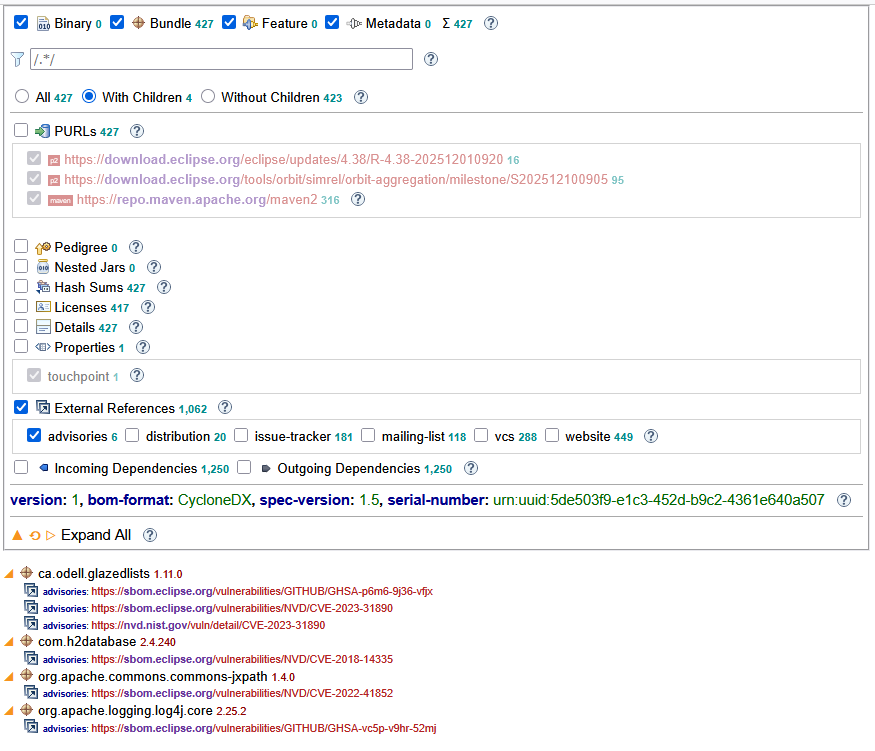
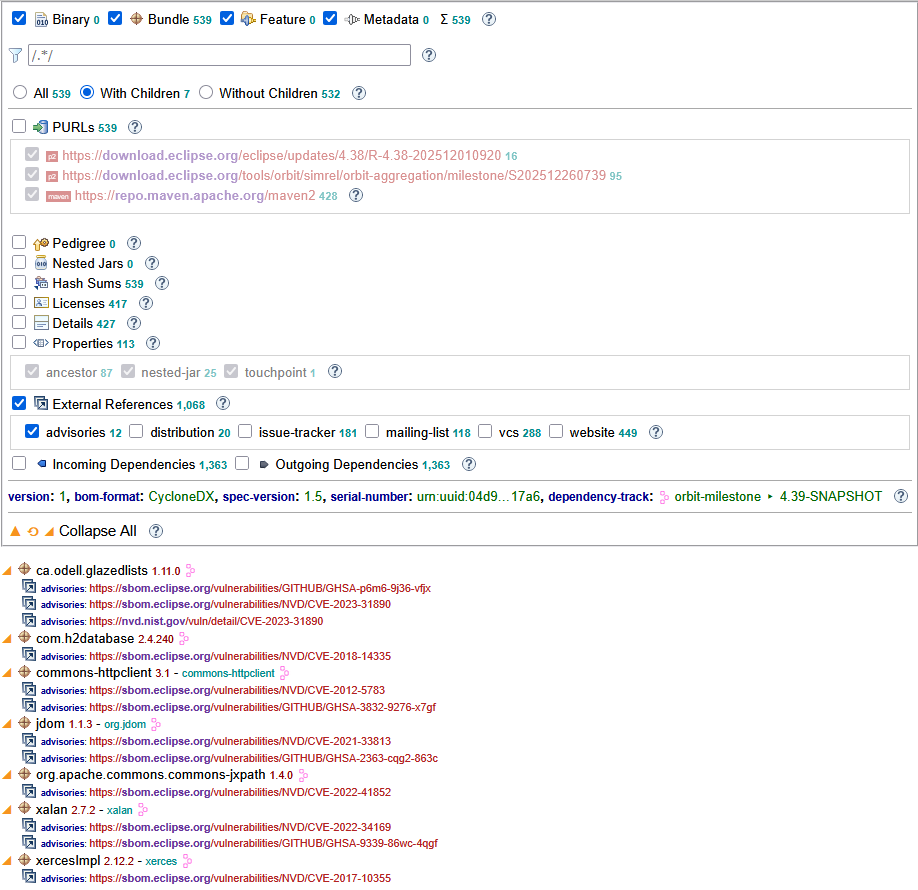
Provide improved support for rendering dependency-track SBOMs

Changed region(s): [[0.0, 0.0, 1.0, 1.0]]

diff --git a/www/index.html b/www/index.html
@@ -3,13 +3,9 @@
 
 <head>
 	<title>SBOM | Eclipse Foundation</title>
+	<meta charset="UTF-8">
 	<meta name="keywords" content="eclipse,sbom">
 	<link rel="icon" type="image/ico" href="favicon.ico">
-	<!--
-	<link rel="preconnect stylesheet" href="../project.css">
-	<script src="../project.js"></script
-	<script src="project.js"></script>
-	-->
 	<style>
 		/* <![CDATA[*/
 		body {
@@ -136,10 +132,21 @@
 		.bom-property-key {
 			font-weight: bold;
 			color: darkblue;
+			font-size: 80%;
 		}
 
 		.bom-property-value {
 			color: darkgreen;
+			font-size: 90%;
+		}
+
+		.bom-property-value a {
+			text-decoration: none;
+			color: inherit;
+		}
+
+		.bom-property-value span {
+			cursor: copy;
 		}
 
 		.bom-property-punctuation {
@@ -422,7 +429,14 @@
 	<script>
 		//<![CDATA[
 
-		const vulnerabilityBase = 'https://sbom.eclipse.org/vulnerabilities/';
+		let isDependencyTrack = false;
+		let metadataComponent = null;
+
+		const dependencyTrackURI = 'https://sbom.eclipse.org/';
+		const dependencyTrackIcon = `<img class="icon" style="max-width: 1em;" src="${dependencyTrackURI}favicon.ico"> `;
+		const dependencyTrackVulnerabilityURI = dependencyTrackURI == null ? null : dependencyTrackURI + 'vulnerabilities/';
+		const dependencyTrackComponentURI = dependencyTrackURI == null ? null : dependencyTrackURI + 'components/';
+
 		const reset = '\u27F2';
 		const collapsed = '\u25B7';
 		const expanded = '\u25E2';
@@ -431,7 +445,6 @@
 		const hidden = '\u25BC';
 
 		const purlPattern = /^pkg:(?<scheme>[^/]+)\/((?<group>[^/]+)\/)?(?<name>[^&]+)@(?<version>[^/?]+)(?<query>\?.*|)$/;
-
 
 		const componentMap = new Map();
 		const incomingDependencyMap = new Map();
@@ -456,6 +469,7 @@
 			mavenRepositories.clear();
 			ids.clear();
 			vulnerabilitiesMap.clear();
+			document.getElementById('dependency-track-help').style.display = 'none';
 		}
 
 		function restore() {
@@ -881,6 +895,13 @@ ${getPropertyElementDetail(property)}
 			return `<span class="property-name">${name}</span><span class="property-punctuation">=</span><span class="property-value">${value}</span>`;
 		}
 
+		function getBOMPropertyValue(value) {
+			if (typeof value == 'string' && value.startsWith('urn:')) {
+				return `<span title="${value}" onclick="copyToClipboard(this.title)">${value.replace(/....-.*-......../, '&hellip;')}</span>`
+			}
+			return value;
+		}
+
 		function getHashElements(component) {
 			const hashes = getModelValue(component, 'hashes');
 			if (hashes != null) {
@@ -934,6 +955,16 @@ ${getLicenseElementDetail(license)}
 			return result;
 		}
 
+		function getComponentDependencyTrackLink(component) {
+			if (isDependencyTrack) {
+				const bomRef = getModelValue(component, 'bom-ref');
+				if (bomRef != null) {
+					return ` <a href="${dependencyTrackComponentURI}${bomRef}" target="_blank">${dependencyTrackIcon}</a>`;
+				}
+			}
+			return '';
+		}
+
 		function getComponentLabel(component) {
 			const scope = getModelValue(component, 'scope');
 			const group = getModelValue(component, 'group');
@@ -942,7 +973,6 @@ ${getLicenseElementDetail(license)}
 			const groupElement = group == null ? '' : ` - <span class="label-group">${group}</span>`;
 			return `<span class="label"><span class="label-name">${name}</span> <span class="label-version">${version}</span>${groupElement}</span>`;
 		}
-
 
 		function getComponentIcon(component) {
 			const classifier = getComponentClassifier(component);
@@ -1048,7 +1078,28 @@ ${getLicenseElementDetail(license)}
 			return defaultValue;
 		}
 
+		function getMetadataToolsName(sbom) {
+			const metadata = getModelValue(sbom, 'metadata')
+			if (metadata != null) {
+				const tools = getModelValue(metadata, 'tools', []);
+				if (tools != null && tools.length == 1) {
+					const name = getModelValue(tools[0], 'name');
+					return name;
+				}
+			}
+		}
+
+		function getMetadataComponent(sbom) {
+			const metadata = getModelValue(sbom, 'metadata')
+			if (metadata != null) {
+				return getModelValue(metadata, 'component');
+			}
+		}
+
 		function buildModel(sbom) {
+			isDependencyTrack = dependencyTrackURI != null && getMetadataToolsName(sbom) == 'Dependency-Track';
+			metadataComponent = getMetadataComponent(sbom);
+
 			bomProperties.set('version', getModelValue(sbom, 'version'));
 			bomProperties.set('bom-format', getModelValue(sbom, 'bomFormat'));
 			bomProperties.set('spec-version', getModelValue(sbom, 'specVersion'));
@@ -1082,7 +1133,7 @@ ${getLicenseElementDetail(license)}
 				}).filter(component => component != null));
 			}
 
-			if (vulnerabilityBase != null) {
+			if (dependencyTrackVulnerabilityURI != null) {
 				for (const vulnerability of getModelValue(sbom, 'vulnerabilities', [])) {
 					const id = getModelValue(vulnerability, 'id');
 					const source = getModelValue(vulnerability, 'source');
@@ -1091,7 +1142,7 @@ ${getLicenseElementDetail(license)}
 						if (name != null) {
 							const advisory = {
 								'type': 'advisories',
-								'url': `${vulnerabilityBase}${name}/${id}`
+								'url': `${dependencyTrackVulnerabilityURI}${name}/${id}`
 							};
 							const affects = getModelValue(vulnerability, 'affects', []);
 							for (const affect of affects) {
@@ -1590,7 +1641,7 @@ ${`<span style="opacity: ${nextId == null ? 0.25 : 1.0};" class="action" onclick
 				const outgoingDependencyElements = getDependencyElements(outgoingDependencyMap, component, 'outgoing-dependency');
 
 				return `<div style="white-space: nowrap;" id=${getModelValue(component, 'bom-ref')} class="${getComponentClassifier(component)}" data-showing="true">
-${generateButton()}<span class="label">&nbsp;${getComponentIcon(component)} ${getComponentLabel(component)}<span>
+${generateButton()}<span class="label">&nbsp;${getComponentIcon(component)} ${getComponentLabel(component)}${getComponentDependencyTrackLink(component)}<span>
 ${purlElements.join('\n')}
 ${pedigreeElements.join('\n')}
 ${nestedComponentElements.join('\n')}
@@ -1614,8 +1665,18 @@ ${componentElements.join('\n')}
 
 			const summary = document.getElementById('summary');
 			const properties = bomProperties.entries().map(([key, value]) =>
-				`<span class="bom-property-key">${key}</span><span class="bom-property-punctuation">:</span> <span class="bom-property-value">${value}</span>`
+				`<span class="bom-property-key">${key}</span><span class="bom-property-punctuation">:</span> <span class="bom-property-value">${getBOMPropertyValue(value)}</span>`
 			).toArray();
+
+			if (isDependencyTrack && metadataComponent != null) {
+				const name = getModelValue(metadataComponent, 'name');
+				const version = getModelValue(metadataComponent, 'version');
+				const bomRef = getModelValue(metadataComponent, 'bom-ref');
+				properties.push(`
+<span class="bom-property-key">dependency-track</span><span class="bom-property-punctuation">:</span> <span class="bom-property-value">
+<a href="${dependencyTrackURI}projects/${bomRef}" target="_blank">${dependencyTrackIcon} ${name} &#x25B8; ${version}</a>
+</span>`);
+			}
 
 			summary.innerHTML += properties.join('<span class="bom-property-punctuation">,</span> ') + `
 <img onclick="popup(\'help-root\')" alt="help" src="help.svg">
@@ -1637,6 +1698,10 @@ ${componentElements.join('\n')}
 			doFilter();
 
 			form.parentElement.style.display = 'none';
+
+			if (isDependencyTrack) {
+				document.getElementById('dependency-track-help').style.display = 'block';
+			}
 		}
 
 		function generatNestedFilters(keys, type) {
@@ -2232,6 +2297,9 @@ ${componentElements.join('\n')}
 						The <a href="https://cyclonedx.org/docs/1.6/json/#serialNumber">serial number</a> of the SBOM.
 					</li>
 				</ul>
+				<div id="dependency-track-help" style="display: none;">
+					A link to the <span data-generate="dependencyTrackIcon"></span><code>dependency-track</code> project is provided.
+				</div>
 			</div>
 
 			<div id="help-control" class="modal-popup-description">

diff --git a/docs/renderer-guide.md b/docs/renderer-guide.md
@@ -46,8 +46,11 @@ projects can use [`https://sbom.eclipse.org`](https://sbom.eclipse.org)
 to upload SBOMs and analyze them for vulnerabilities.
 The generator can be used to generate an SBOM that is uploaded to `sbom.eclipse.org`
 as described in the [Maven/Jenkins Integration](build-guide.md) guide.
-Such an SBOM can subsequently be downloaded, enhanced with vulnerabilities details, for viewing in the renderer
-using `Components → Download BOM → Inventory with Vulnerabilities`:
+Due to current limitations of `dependency-track`,
+it's best to use the [`-dependency-track`](cli-guide.md#-dependency-track) option for generating the SBOM to be uploaded.
+A `dependency-track` SBOM can subsequently be downloaded, enhanced with vulnerabilities details,
+using `Components → Download BOM → Inventory with Vulnerabilities`
+for viewing in the renderer:
 
 ![](assets/dependency-track-download-sbom.png)
 
@@ -60,3 +63,6 @@ Here we've filtered to show only components `With Children`
 and to show only `External References` of type `advisories` as children.
 
 ![](assets/renderer-vulnerabilities.png)
+
+Note that in this case the renderer displays a `dependency-track` property that links back to the originating `dependency-track` project
+and that each component has a <img class="icon" style="max-width: 1em;" src="https://sbom.eclipse.org/favicon.ico"> link to that component's `dependenecy-track` details.
